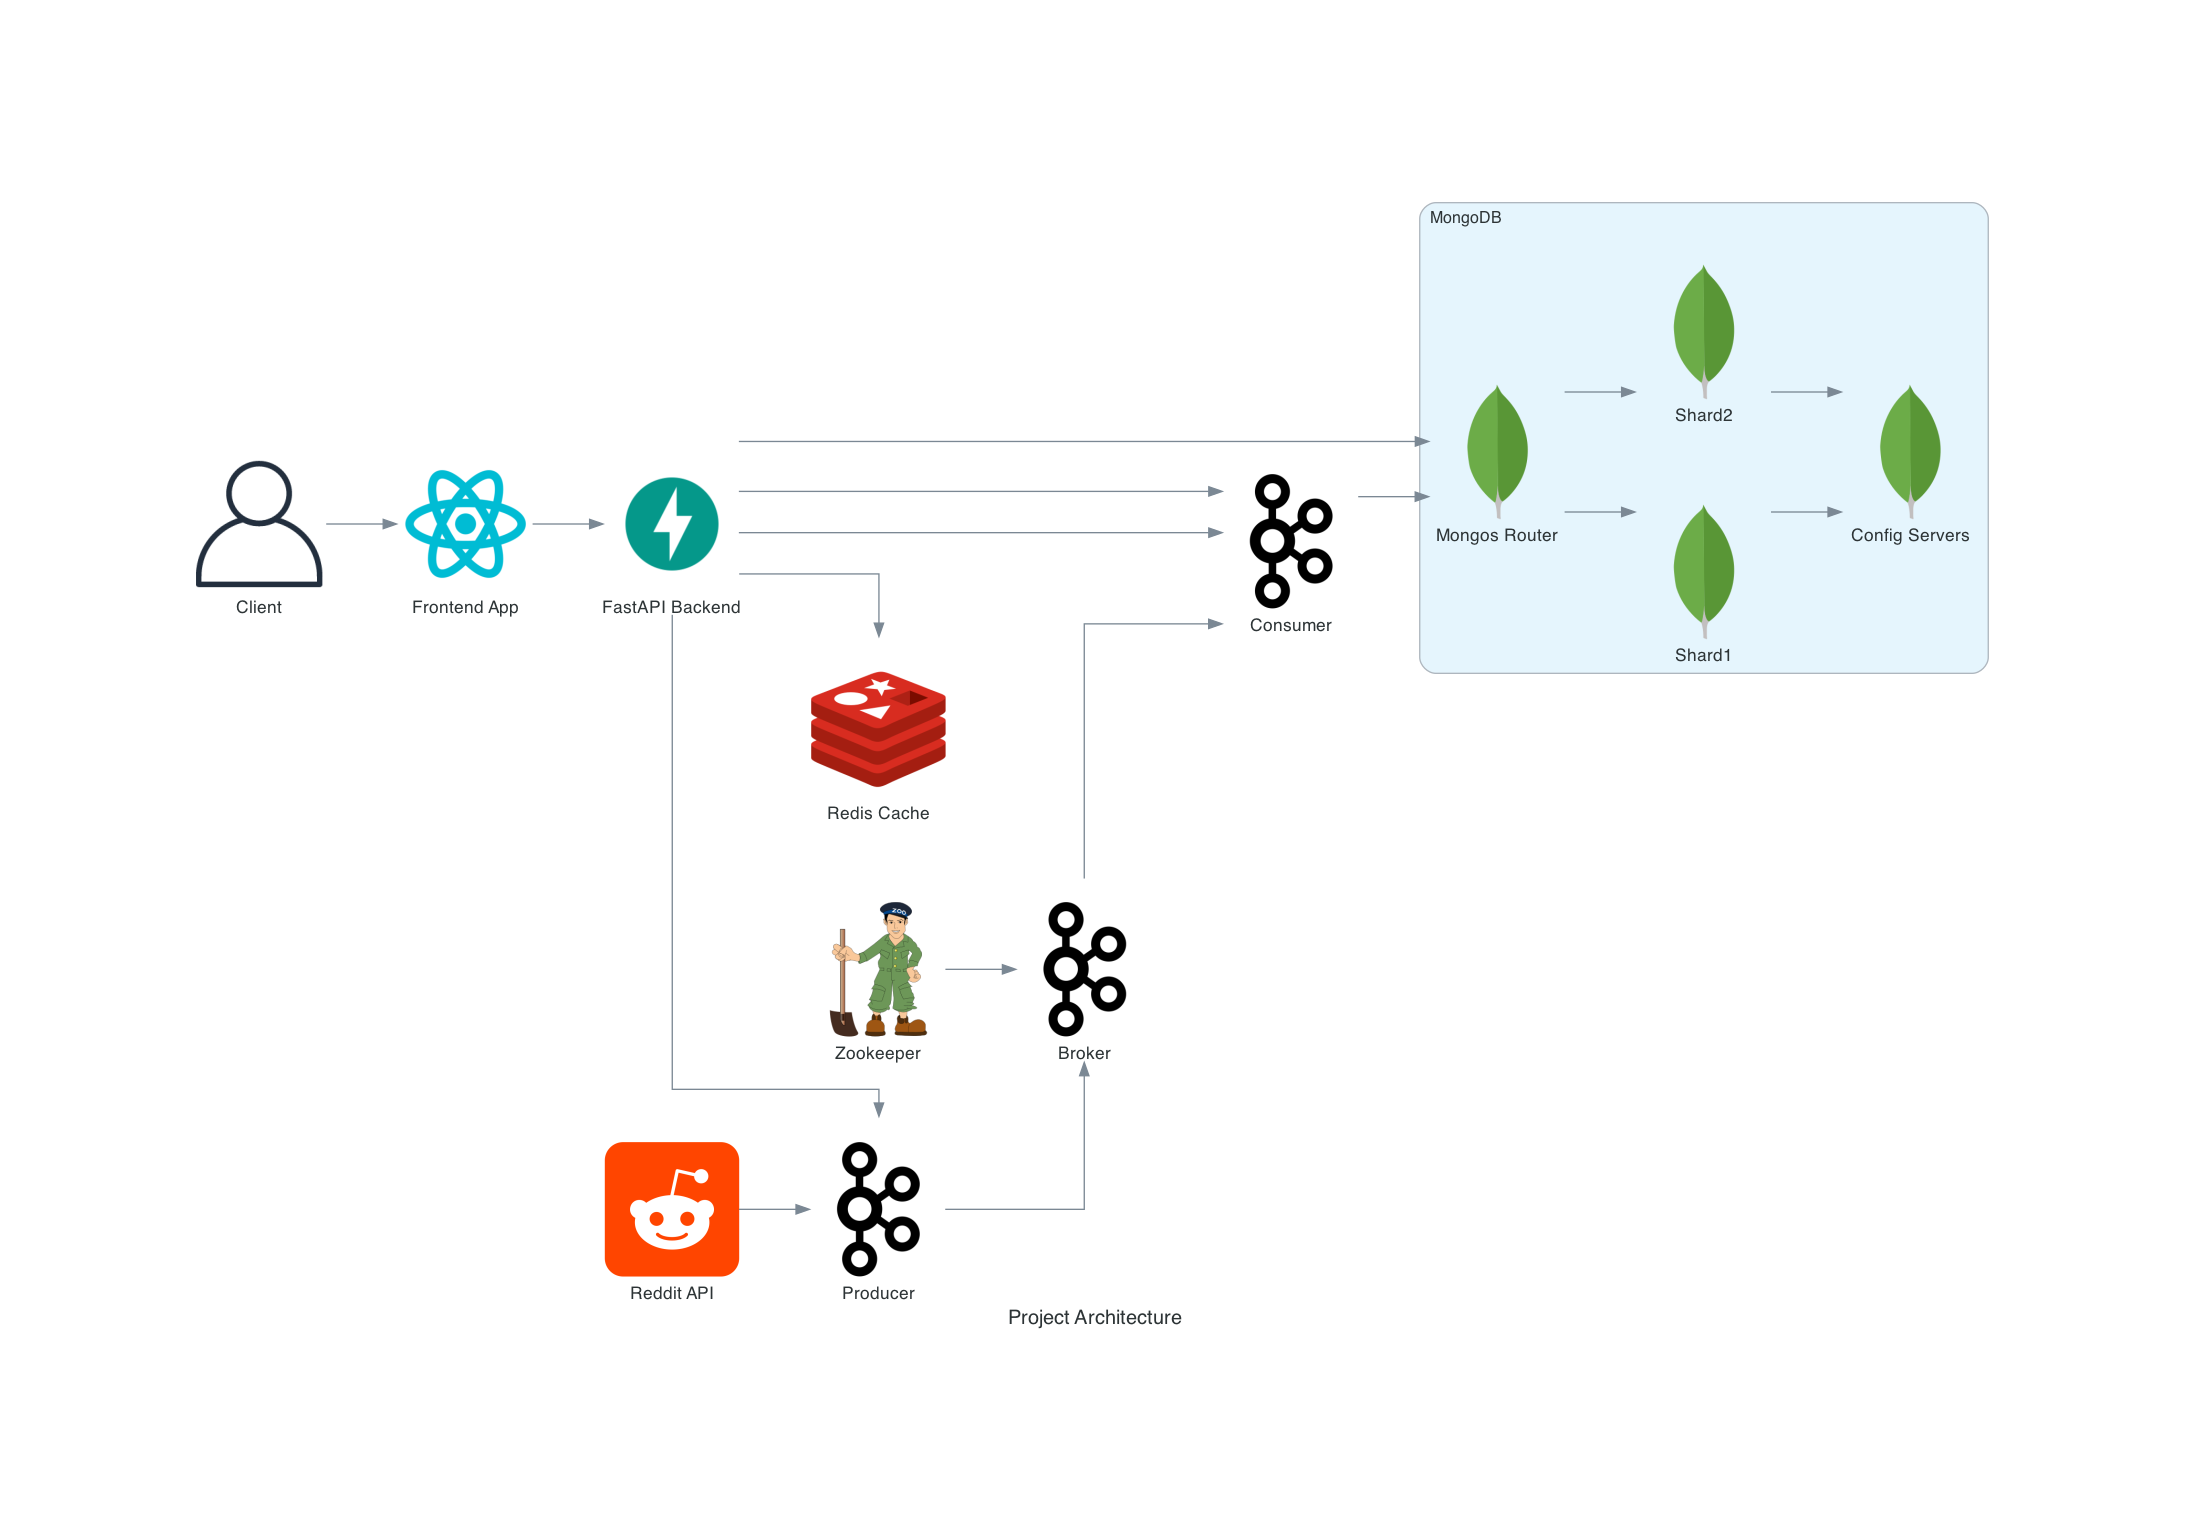
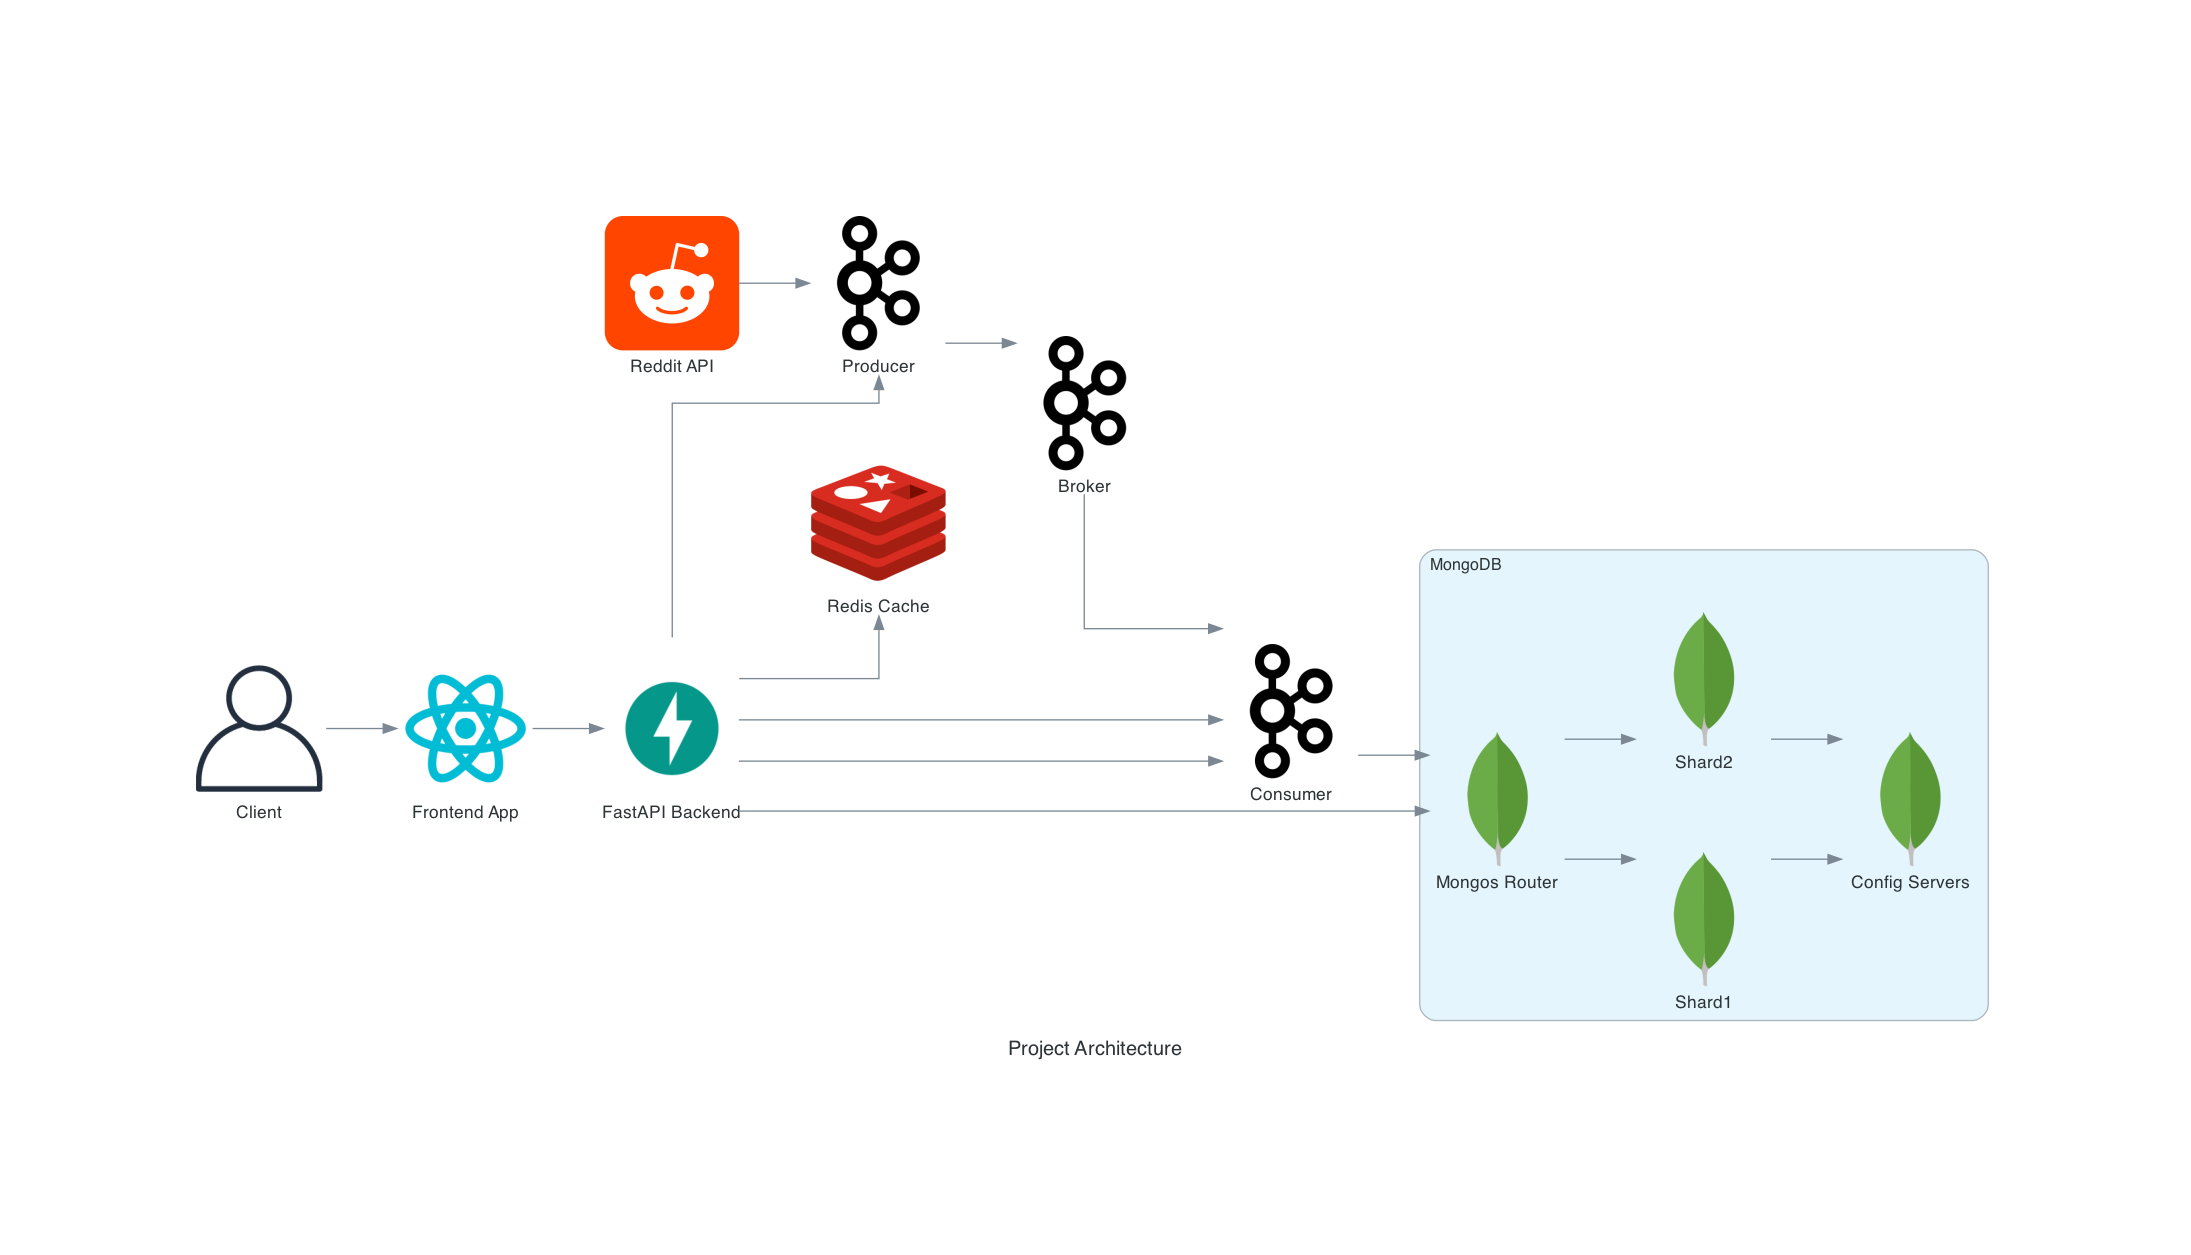
final

diff --git a/diagram.py b/diagram.py
@@ -3,7 +3,6 @@ from diagrams.onprem.database import MongoDB
 from diagrams.onprem.inmemory import Redis
 from diagrams.onprem.queue import Kafka
 from diagrams.onprem.client import User
-from diagrams.onprem.network import Zookeeper
 from diagrams.programming.framework import FastAPI
 from diagrams.programming.framework import React
 from diagrams.custom import Custom
@@ -29,7 +28,7 @@ with Diagram("Project Architecture", show=False):
     kafka_producer = Kafka("Producer")
     kafka_broker = Kafka("Broker")
     kafka_consumer = Kafka("Consumer")
-    zookeeper = Zookeeper("Zookeeper")
+    # zookeeper = Zookeeper("Zookeeper")
 
     # MongoDB Cluster setup
     mongodb_router >> [shard1, shard2]
@@ -48,4 +47,4 @@ with Diagram("Project Architecture", show=False):
     kafka_consumer>> mongodb_router
 
     # Zookeeper enabling Kafka
-    zookeeper >> kafka_broker
+    # zookeeper >> kafka_broker
